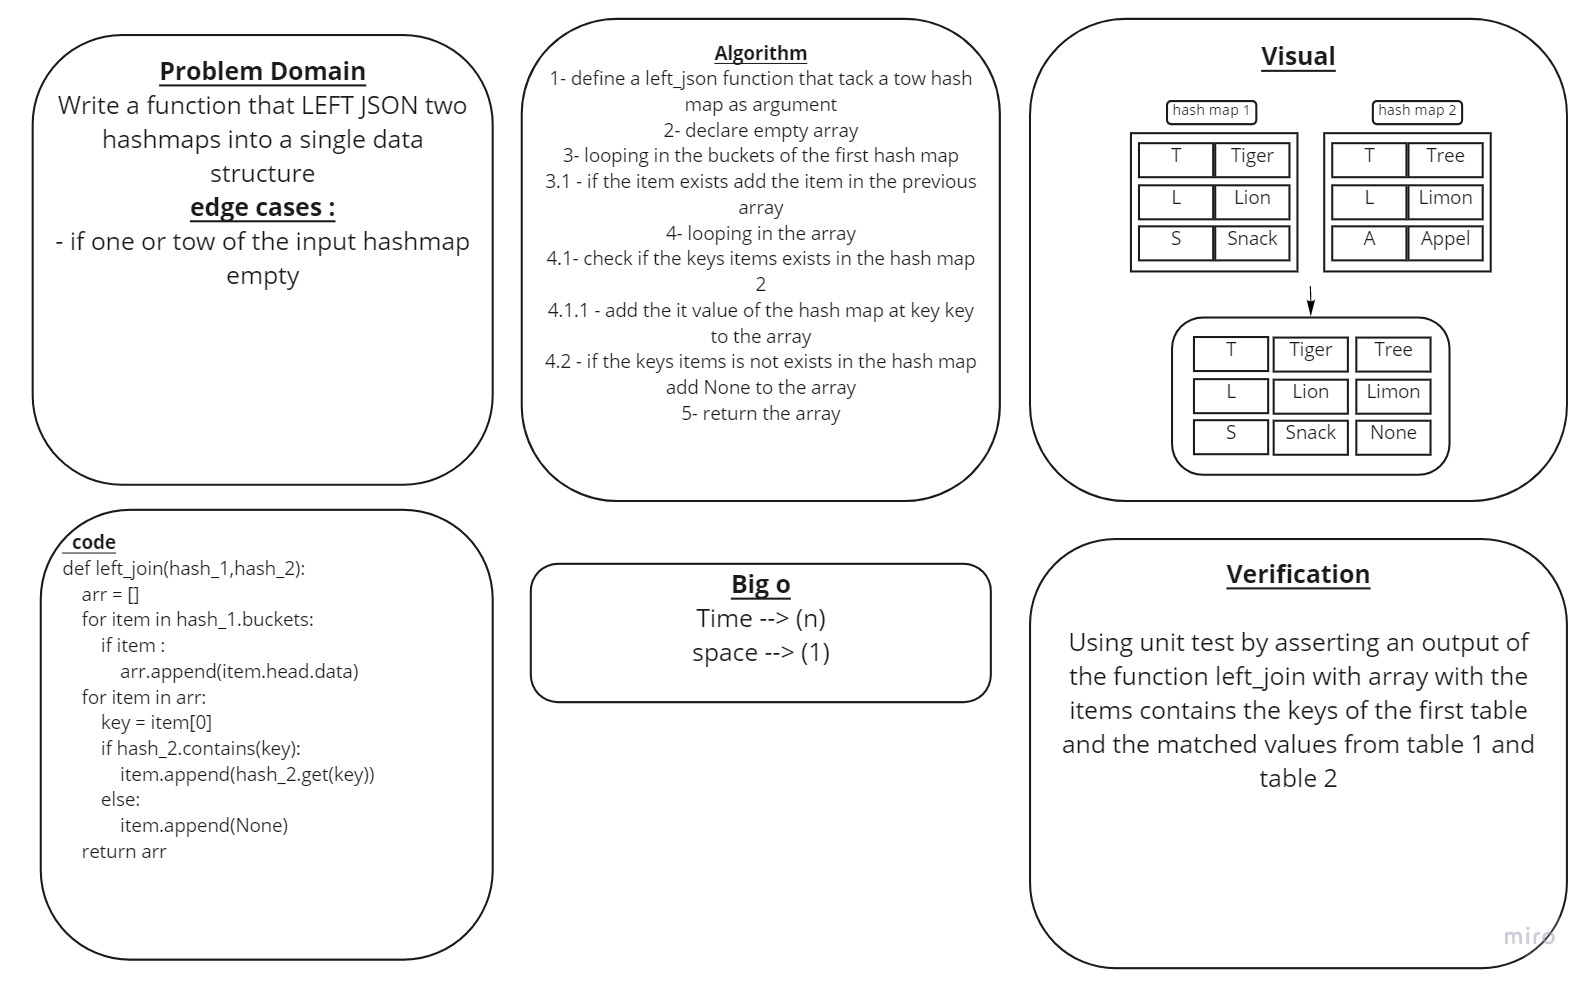
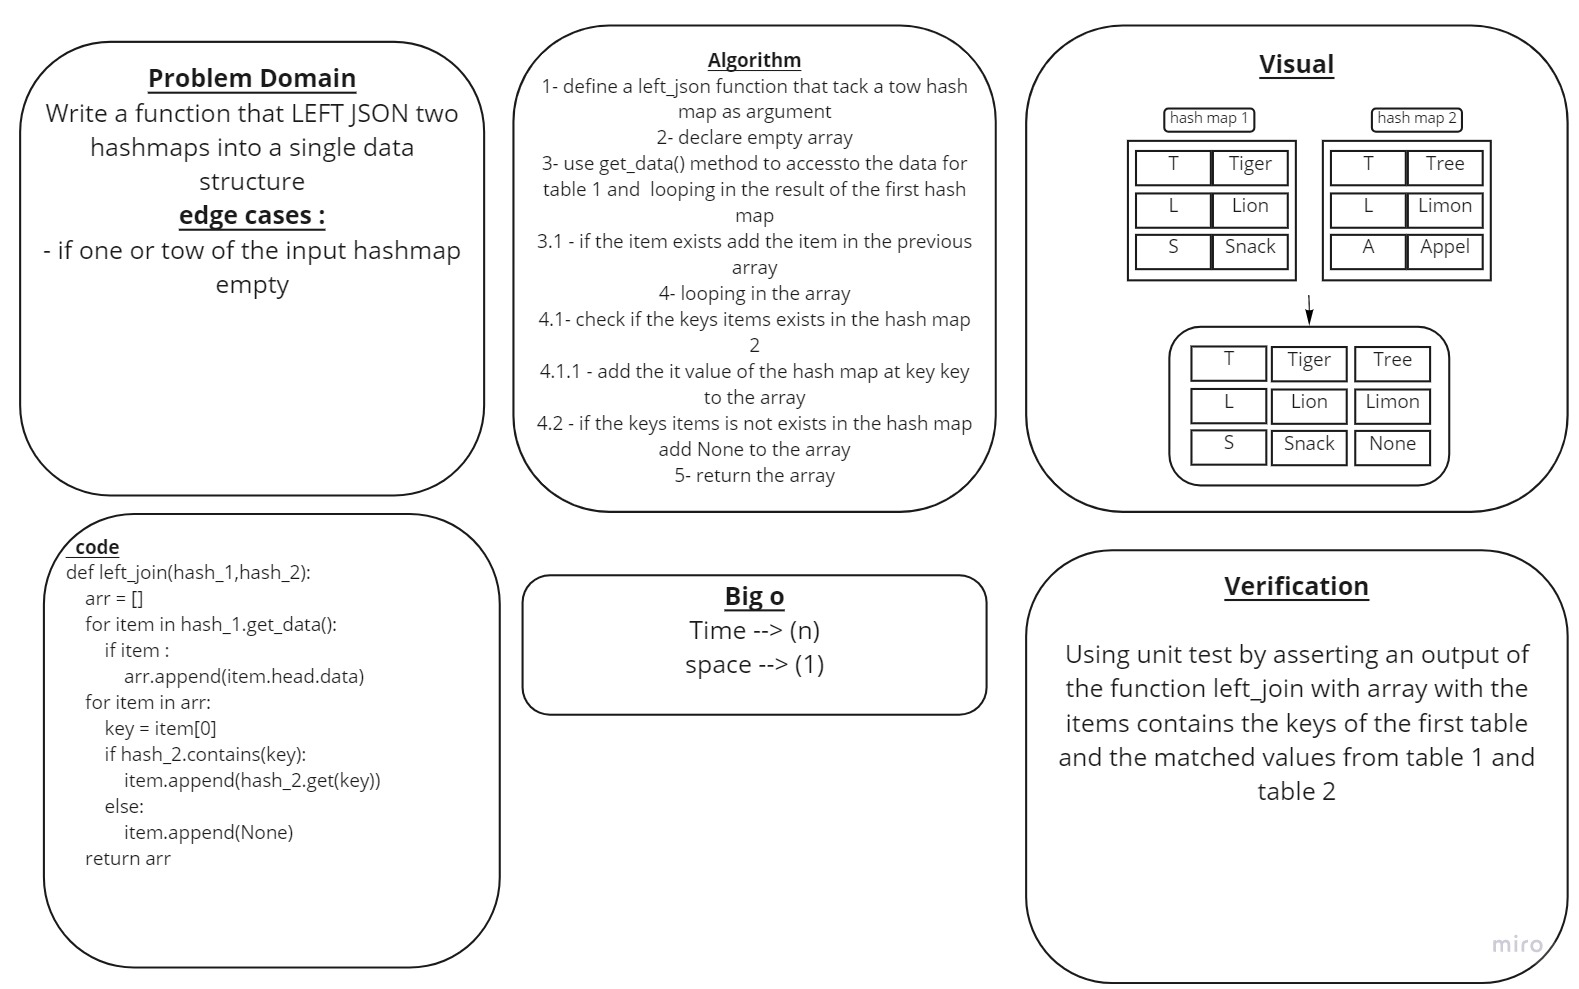
33-new

diff --git a/python/challenges/left_join/left_join.py b/python/challenges/left_join/left_join.py
@@ -1,5 +1,5 @@
 from re import I
-
+#
 
 try :
     from hashtable import Hashtable
@@ -8,7 +8,7 @@ except:
 
 def left_join(hash_1,hash_2):
     arr = []
-    for item in hash_1.buckets:
+    for item in hash_1.get_data():
         if item :
             arr.append(item.head.data)
     for item in arr:

diff --git a/python/challenges/left_join/hashtable.py b/python/challenges/left_join/hashtable.py
@@ -84,6 +84,9 @@ class Hashtable :
             return True
         return False
 
+    def get_data(self):
+        return self.buckets
+
     def __str__(self):
         return str(self.buckets)
 

diff --git a/python/challenges/left_join/README.md b/python/challenges/left_join/README.md
@@ -15,7 +15,7 @@ Space -> O(1)
 
 ## pull Request :
 https://github.com/HamzhSuilik/data-structures-and-algorithms/pull/41
-
+https://github.com/HamzhSuilik/data-structures-and-algorithms/pull/47
 
 - [x] create left_join.py and test files
 - [x] write left_join function
